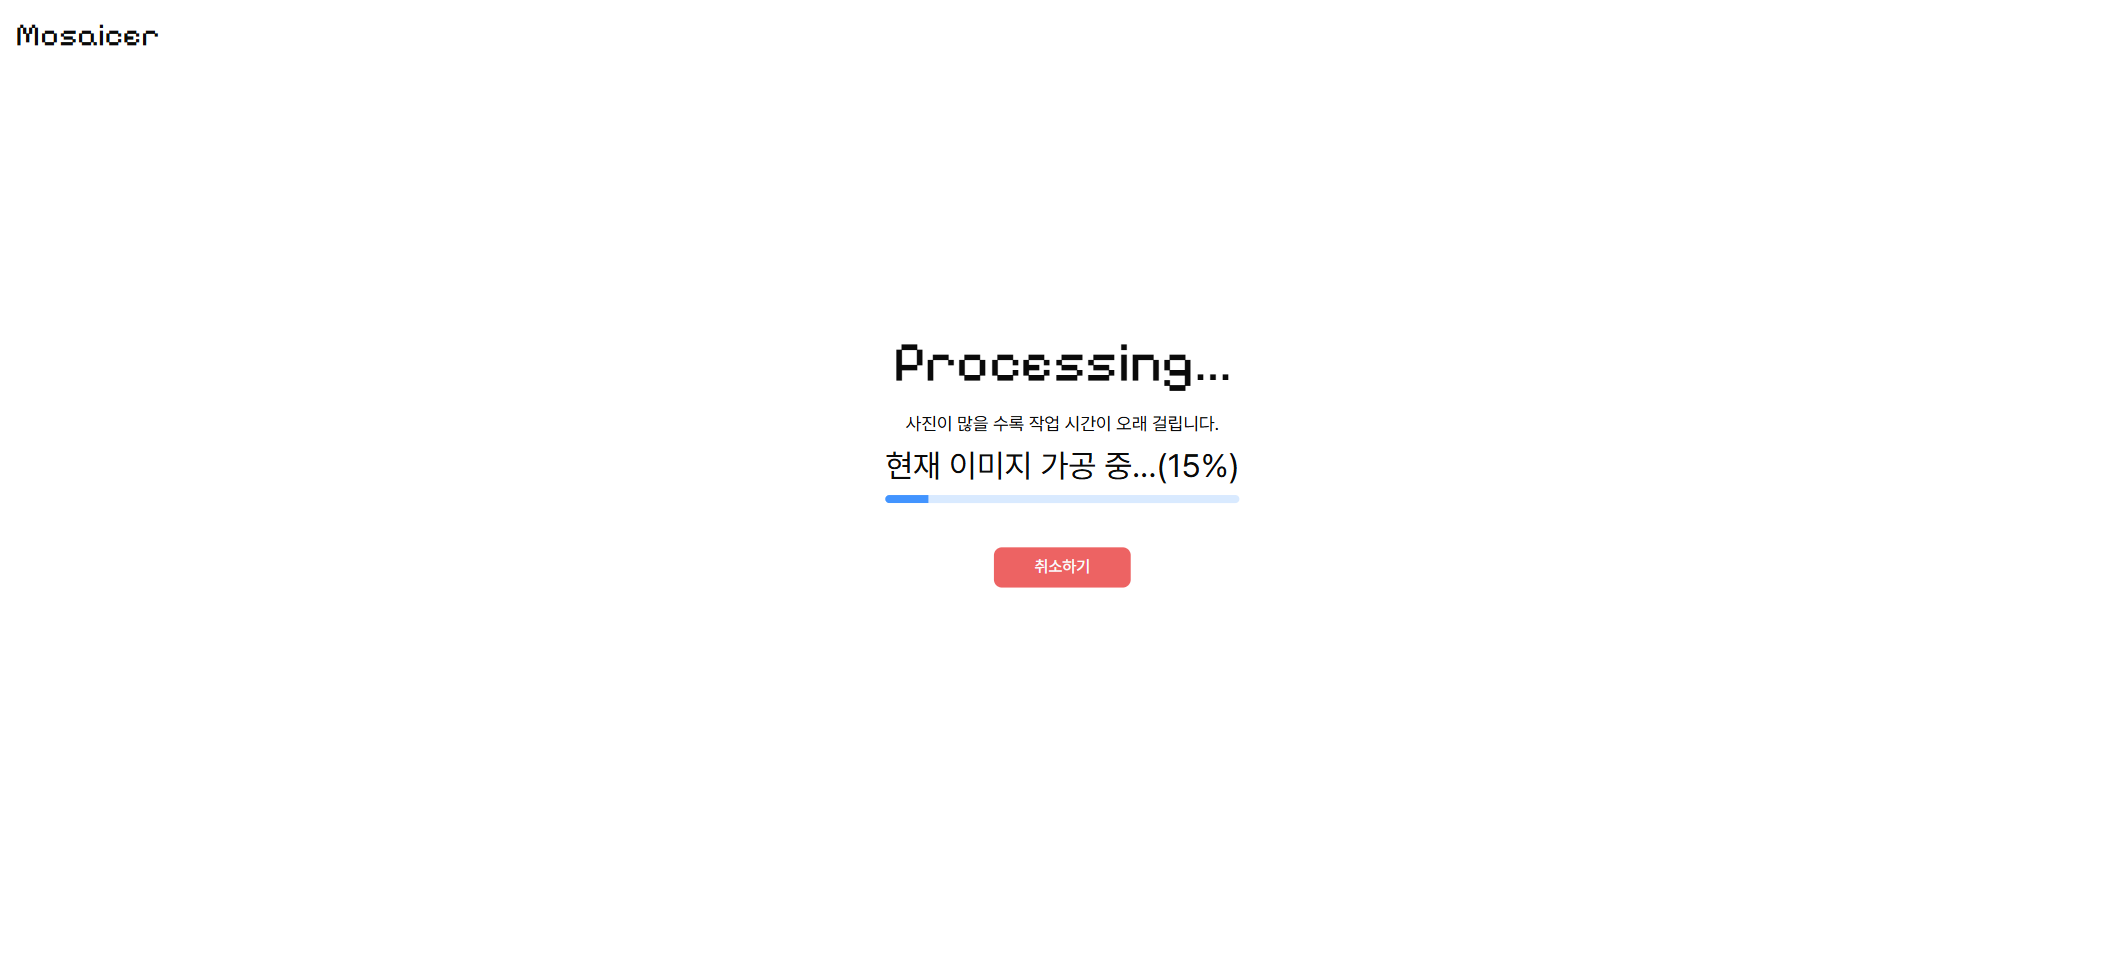
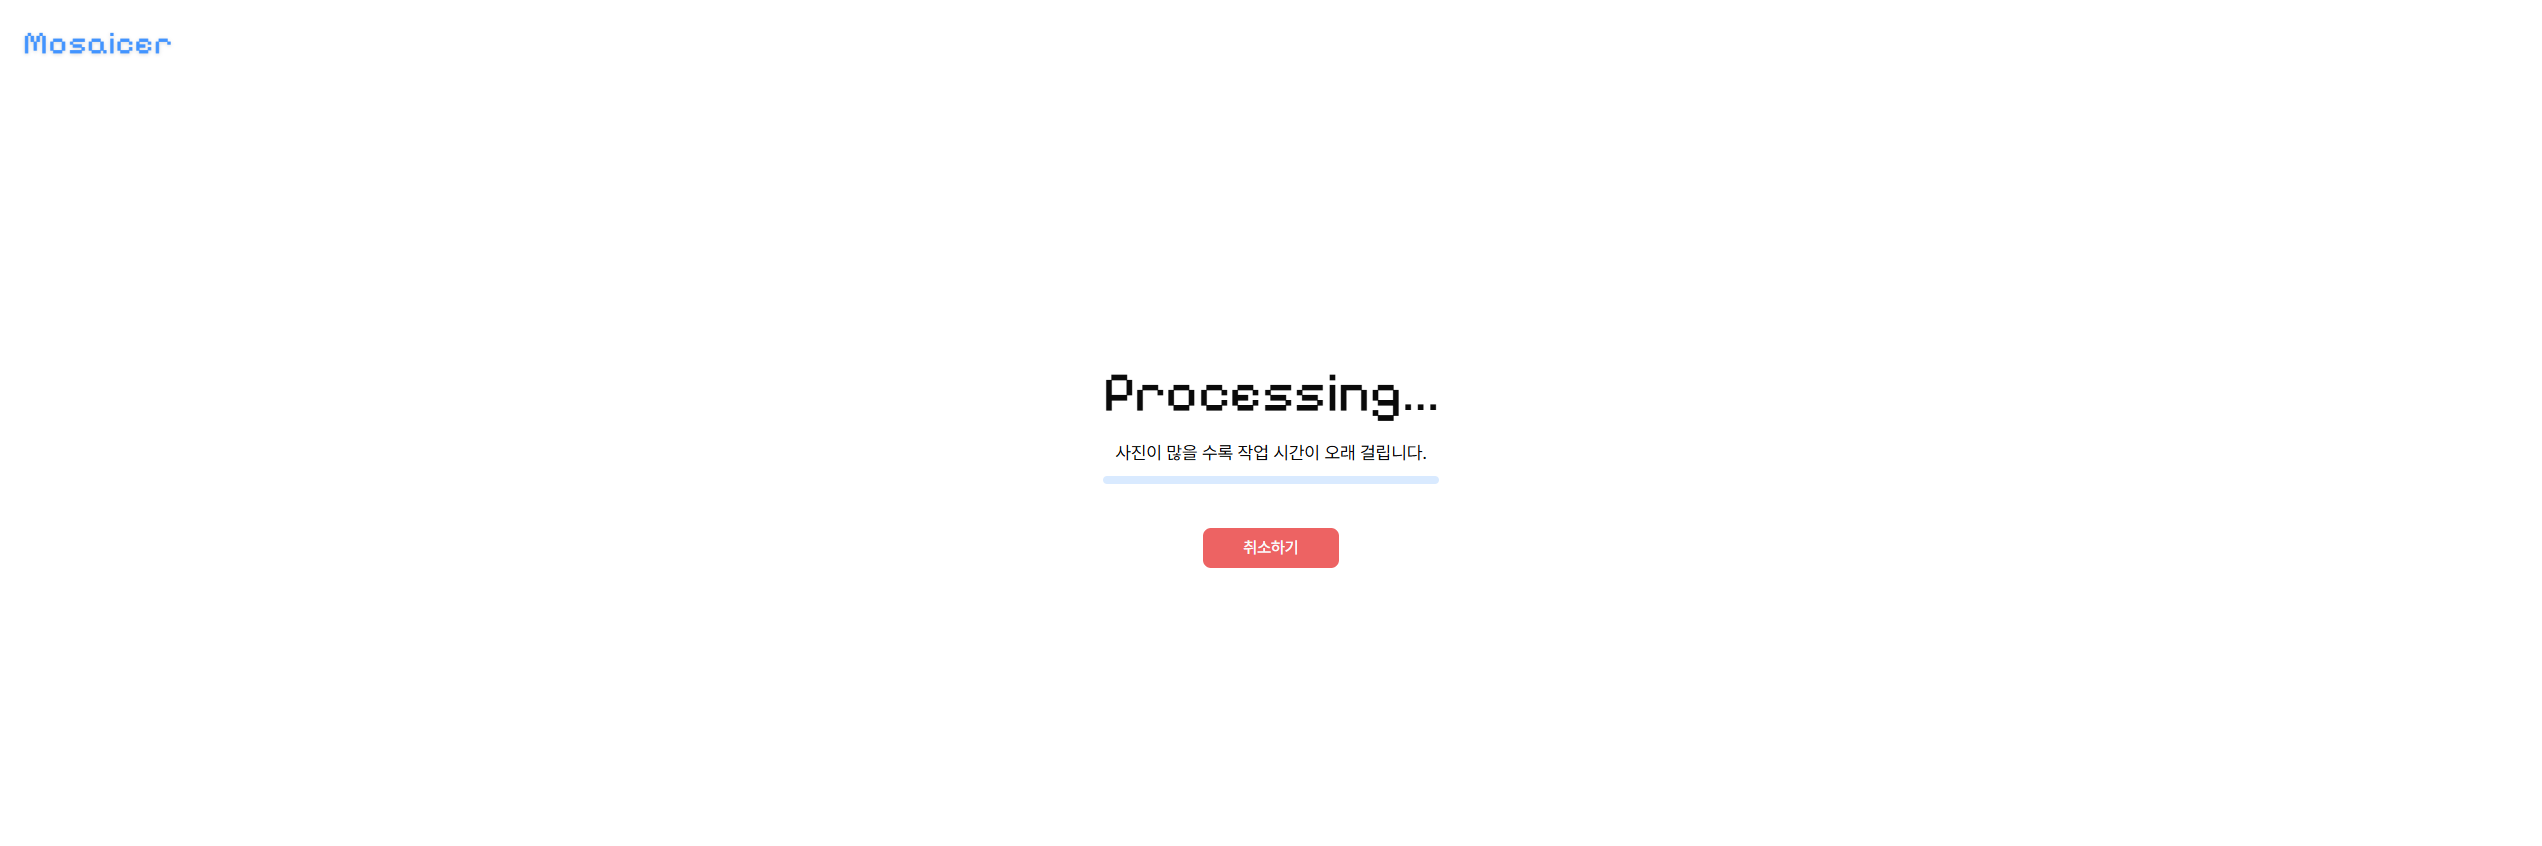
refactor: change usage images and css design

Changed region(s): [[0.4055, 0.3381, 0.5926, 0.6761], [0.0, 0.0307, 0.0936, 0.0615]]

diff --git a/src/pages/result/Result.tsx b/src/pages/result/Result.tsx
@@ -40,7 +40,7 @@ const Result = () => {
       <div className="border-default h-17 w-screen md:h-35">
         <div className="mx-4 mt-4 md:mx-8 md:mt-8">
           <span
-            className="font-mosaic text-[24px] hover:cursor-pointer md:text-[32px]"
+            className="font-mosaic text-primary text-[24px] tracking-wide drop-shadow-sm hover:cursor-pointer md:text-[32px]"
             onClick={() => navigate(CONST_URL.HOME)}
           >
             Mosaicer
